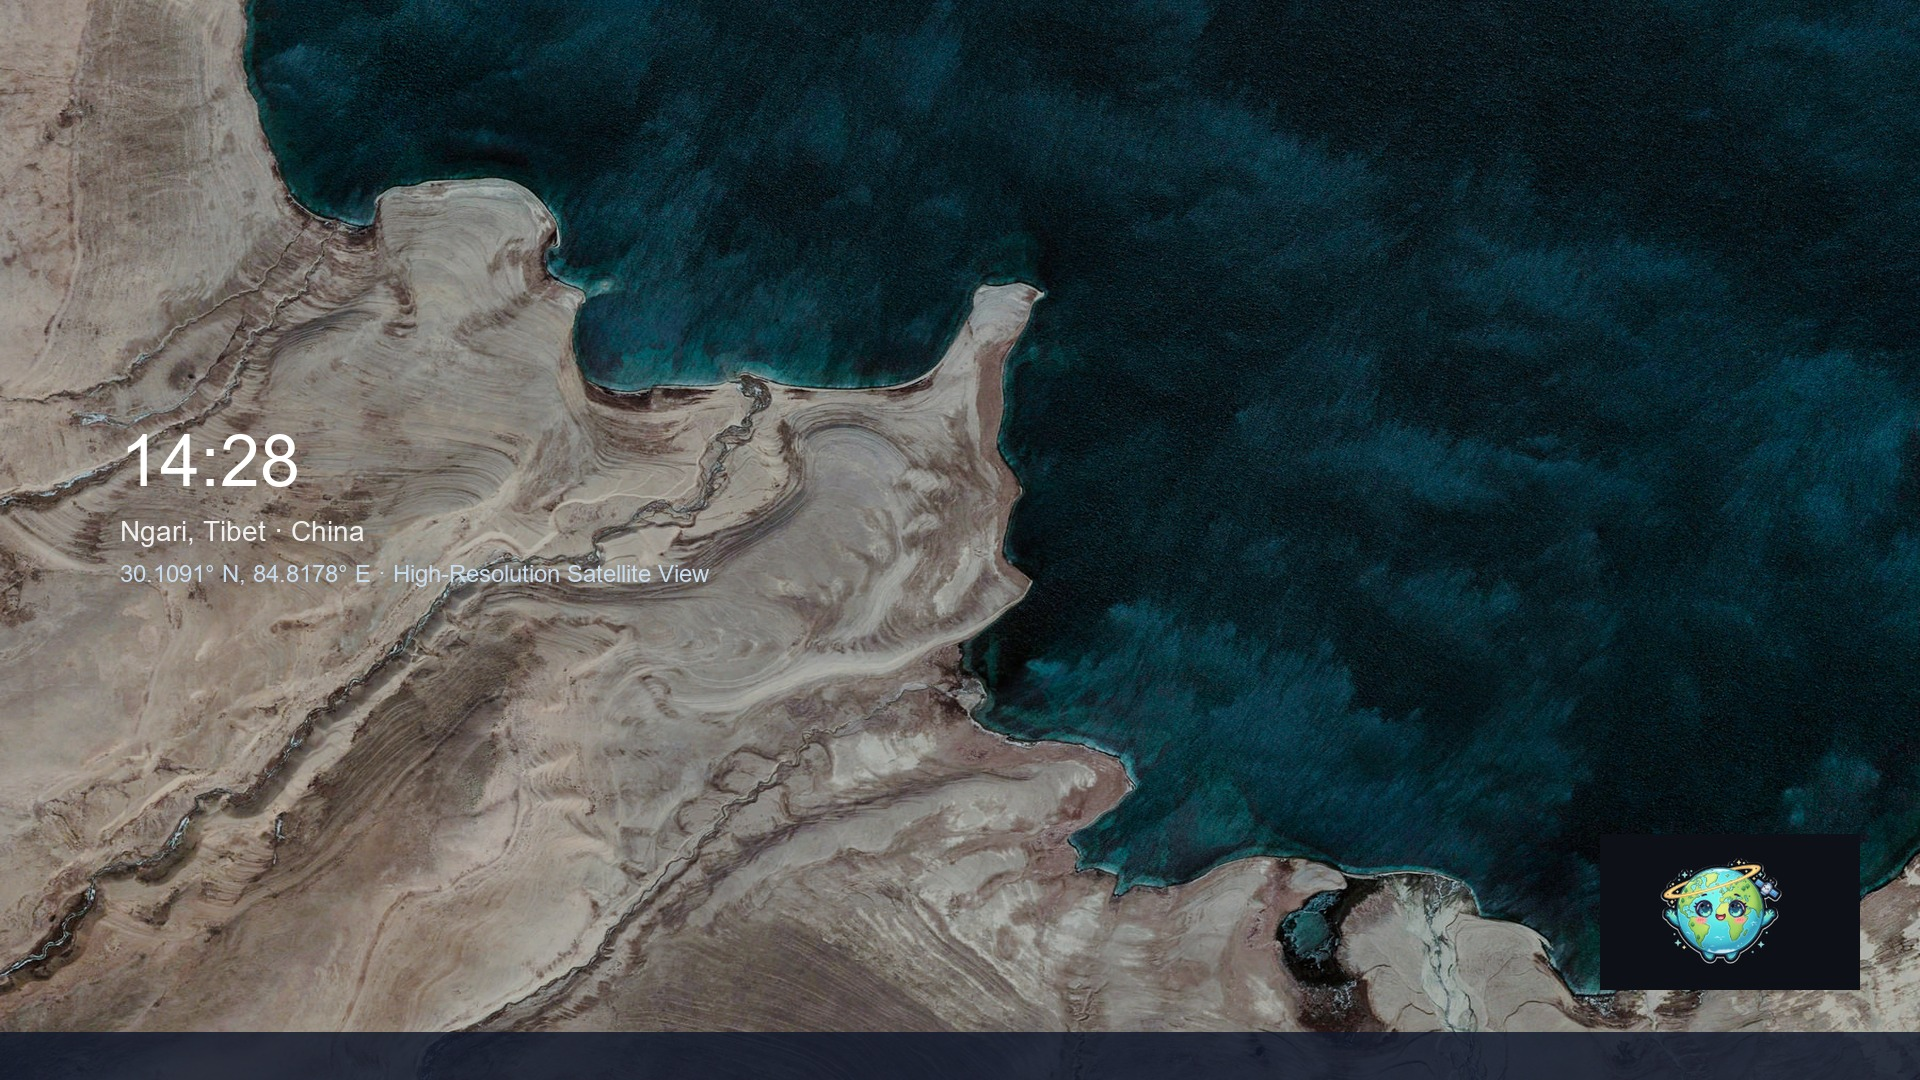
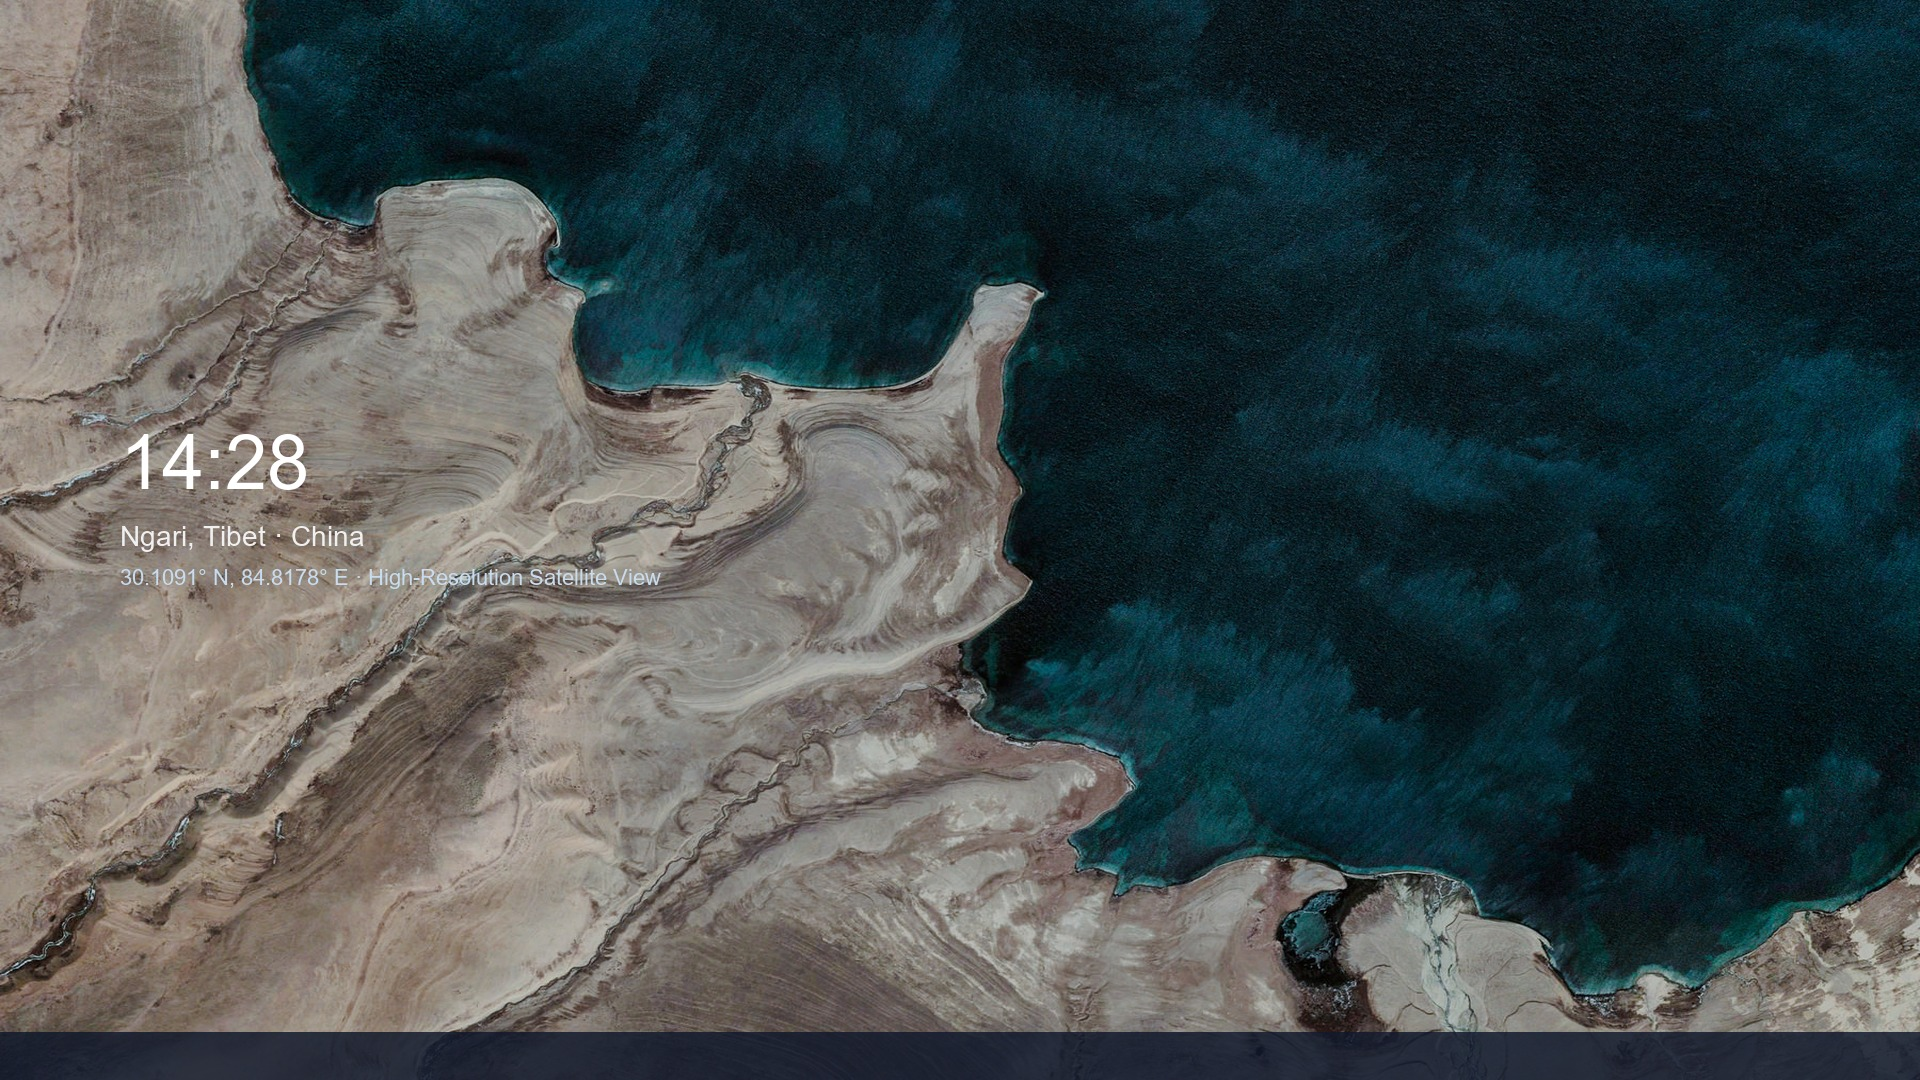
feat(ai): upgrade to Gemini 3.8 Flash, simplify product presentation, and purge raster pet screenshot

Changed region(s): [[0.8125, 0.7639, 0.9688, 0.9167], [0.0625, 0.4889, 0.375, 0.55], [0.0625, 0.3972, 0.1562, 0.4583]]

diff --git a/EarthWallpaper/GeminiService.cs b/EarthWallpaper/GeminiService.cs
@@ -103,7 +103,7 @@ namespace EarthWallpaper
             try
             {
                 string cleanKey = apiKey.Trim();
-                string url = $"https://generativelanguage.googleapis.com/v1beta/models/gemini-2.0-flash:generateContent?key={cleanKey}";
+                string url = $"https://generativelanguage.googleapis.com/v1beta/models/gemini-3.8-flash:generateContent?key={cleanKey}";
                 var payload = new
                 {
                     contents = new[]
@@ -120,7 +120,7 @@ namespace EarthWallpaper
 
                 if (resp.IsSuccessStatusCode)
                 {
-                    return (true, "连接成功！Gemini 2.0 Flash 服务正常响应就绪。");
+                    return (true, "连接成功！Gemini 3.8 Flash 服务正常响应就绪。");
                 }
 
                 string errMsg = $"HTTP {(int)resp.StatusCode}";
@@ -153,7 +153,7 @@ namespace EarthWallpaper
 
         private static async Task<string> CallGeminiApiAsync(string apiKey, LocationInfo loc, string question, List<(string role, string text)> history)
         {
-            string url = $"https://generativelanguage.googleapis.com/v1beta/models/gemini-2.0-flash:generateContent?key={apiKey}";
+            string url = $"https://generativelanguage.googleapis.com/v1beta/models/gemini-3.8-flash:generateContent?key={apiKey}";
 
             var contents = new List<object>();
 

diff --git a/README.md b/README.md
@@ -1,140 +1,44 @@
-# Earth Tabliss Wallpaper 🌍✨
+# Earth Tabliss 🌍
 
-<p align="center">
-  <img src="docs/images/mascot.png" alt="Earth Tabliss Mascot" width="140" height="140" />
-</p>
-
-<p align="center">
-  <strong>Silent stars, breathtaking landscapes — High-resolution curated satellite wallpapers & intelligent desktop companion for Windows.</strong>
-</p>
+> A lightweight, minimalist live wallpaper for Windows featuring 1,500+ curated high-resolution satellite landscapes from Google Earth View, integrated with Tabliss-inspired typography and geological AI analysis.
 
 <p align="center">
   <img src="https://img.shields.io/badge/Platform-Windows%2010%20%7C%2011-blue?style=flat-square&logo=windows" alt="Platform" />
-  <img src="https://img.shields.io/badge/.NET-10.0%20Windows-512BD4?style=flat-square&logo=dotnet" alt=".NET Version" />
-  <img src="https://img.shields.io/badge/Engine-Direct%20WorkerW%20Layer-0078D7?style=flat-square" alt="Engine" />
-  <img src="https://img.shields.io/badge/CPU%20Overhead-0%20FPS%20%7C%20~0.0%25%20Idle-22c55e?style=flat-square" alt="Efficiency" />
-  <img src="https://img.shields.io/badge/AI%20Model-Gemini%202.0%20Flash-4285F4?style=flat-square&logo=google" alt="AI Model" />
+  <img src="https://img.shields.io/badge/.NET-10.0-512BD4?style=flat-square&logo=dotnet" alt=".NET" />
+  <img src="https://img.shields.io/badge/CPU%20Idle-0%20FPS%20%7C%20~0.0%25-22c55e?style=flat-square" alt="Efficiency" />
+  <img src="https://img.shields.io/badge/AI-Gemini%203.8%20Flash-4285F4?style=flat-square&logo=google" alt="AI" />
   <img src="https://img.shields.io/badge/License-MIT-green?style=flat-square" alt="License" />
 </p>
 
 <p align="center">
-  <a href="README.md">English</a> • <a href="README.zh-CN.md">简体中文</a>
+  <img src="docs/images/desktop_preview.jpg" alt="Desktop Preview" width="100%" />
 </p>
+
+## ✨ Highlights
+
+* **1,500+ Satellite Views**: Curated landscapes from Google Earth View across deserts, glaciers, reefs, and salt flats.
+* **0 FPS Zero-Overhead Engine**: Halts redraw loops once the 0.6s wallpaper transition finishes. Idles at **~0.0% CPU**.
+* **Clean System Teardown**: Hooks non-destructively to Windows `WorkerW`. Automatically backs up and restores your original wallpaper on exit.
+* **Ask Gemini**: Instant geological and satellite reasoning powered by **Gemini 3.8 Flash** (`gemini-3.8-flash` / Gemini 4 Hydrogen compatible).
+* **Visual Bookmarks Hub**: Save and organize your favorite coordinates with instant cached satellite thumbnails.
 
 <p align="center">
-  <img src="docs/images/desktop_preview.jpg" alt="Earth Tabliss Desktop Wallpaper Preview" width="100%" />
+  <img src="docs/images/wallpaper_gallery_grid.jpg" alt="Wallpaper Gallery" width="100%" />
 </p>
 
----
+## 🚀 Quick Start
 
-## 🌌 Overview
+### Requirements
+* Windows 10 (1903+) or Windows 11 (64-bit)
+* [.NET 10.0 Desktop Runtime](https://dotnet.microsoft.com/download)
 
-In a fast-paced digital workflow, your desktop shouldn't just be an icon dump — it should be an expansive window to the planet.
-
-**Earth Tabliss** transforms your Windows desktop into an ever-refreshing visual expedition across 1,500+ curated high-resolution satellite landscapes from Google Earth View, integrated with Tabliss-inspired minimalist typography, an interactive desktop companion, and deep planetary geological reasoning powered by Google Gemini.
-
-<p align="center">
-  <img src="docs/images/wallpaper_gallery_grid.jpg" alt="Curated High-Resolution Satellite Wallpapers" width="100%" />
-  <br />
-  <em>Over 1,500+ ultra-high-resolution satellite captures across deserts, glaciers, coral reefs, and volcanic plains.</em>
-</p>
-
----
-
-## ✨ Key Features
-
-### 🖼 1. Ultra-High-Resolution Curated Earth View
-* **1,500+ Masterpieces**: Hand-picked satellite captures spanning all seven continents — tectonic faultlines, salt flats, meandering rivers, and glacial valleys.
-* **Minimalist Information Overlay**: Displays clean local time, geographic coordinates, and regional names without cluttering your workspace.
-* **One-Click 3D Flyover**: Instantly transition from your 2D desktop wallpaper into a full 3D interactive flight on Google Earth Web.
-
-### 🍃 2. True Zero-FPS Idle Efficiency (0.0% CPU)
-* **Static Zero-Refresh Architecture**: Unlike video loops or heavy rendering engines that constantly burn GPU cycles, Earth Tabliss halts all redraw loops once a wallpaper fade-in completes.
-* **Extreme Low Resource Footprint**: Idles at **~0.0% CPU overhead** and low memory usage. Completely silent, fan-free, and battery-friendly — runs effortlessly on both ultra-thin laptops and entry-level quad-core machines.
-
-### 🐾 3. Non-Intrusive Desktop Companion
-* **Zero Window Dominance**: Resides naturally above the desktop layer without stealing keyboard focus or popping over your IDE, terminal, or browser.
-* **Intuitive Mouse Matrix**:
-  * **Left Click**: Toggles the interactive landmark bubble (quick switch, bookmark, or analyze).
-  * **Left Double-Click**: Opens the comprehensive **Earth Hub**.
-  * **Left Drag**: Freely relocates the pet anywhere across multi-monitor setups with automatic taskbar boundary snapping.
-  * **Right Click**: Opens the system utility context menu (skin switching, toggle desktop icons, bookmarks, telemetry, exit).
-
-### ⭐ 4. Visual Bookmarks Hub with Satellite Thumbnails
-* **Persistent Two-Tier Image Cache**: Stores and renders high-definition satellite preview thumbnails with instant responsiveness.
-* **Tag-Based Filtering & Search**: Organize your collection by tags (Cities, Deserts, Rivers, Favorites) or search by country, region, and coordinates.
-* **Instant Wallpaper Application**: Reapply any saved landmark as your live wallpaper with a single click.
-
-<p align="center">
-  <img src="docs/images/bookmarks_hub.png" alt="Bookmarks Hub" width="90%" />
-</p>
-
-### 💬 5. "Ask Gemini" Geological & Satellite Intelligence
-* **Planetary Geomorphology Q&A**: Ask Gemini anything about structural geology, sedimentology, erosion dynamics, and orbital imaging spectra.
-* **Powered by Gemini 2.0 Flash**: Fast, responsive inference directly from Google AI Studio.
-* **Seamless API Onboarding**: Comes with offline reasoning models out of the box; easily attach your personal free Gemini API Key for comprehensive analysis.
-
-<p align="center">
-  <img src="docs/images/ask_gemini.png" alt="Ask Gemini Analysis" width="90%" />
-</p>
-
-### 🛡 6. Zero Host Pollution & Clean Teardown
-* **Non-Destructive Execution**: Does not tamper with Windows input hooks or Explorer thread message loops.
-* **Original Wallpaper Auto-Restoration**: Backs up your active system wallpaper upon launch and 100% cleanly restores it on exit.
-* **Desktop Icon Toggle**: One-click visibility toggle for desktop icons whenever you want a completely clean, unobstructed planetary vista.
-
----
-
-## 🎮 Control Matrix
-
-| Input | Target | Action & Description |
-| :--- | :--- | :--- |
-| **Left Click** | Desktop Pet | Toggle landmark speech bubble (quick navigation & bookmark) |
-| **Left Double-Click** | Desktop Pet | Open the Earth Hub (Bookmarks, Gemini Q&A, Settings) |
-| **Left Drag** | Desktop Pet | Reposition pet with auto boundary collision prevention |
-| **Right Click** | Desktop Pet | Open pet management menu (Skins, Icons, Settings, Exit) |
-| **Right Click** | Tray Icon | Open system tray menu (Next/Prev Wallpaper, Auto-start, Exit) |
-| **ESC Key** | Any Modal | Quickly close any active Earth Tabliss dialog |
-
----
-
-## 🚀 Getting Started
-
-### System Requirements
-* **OS**: Windows 10 (1903+) or Windows 11 (64-bit)
-* **Runtime**: [.NET 10.0 Desktop Runtime](https://dotnet.microsoft.com/download/dotnet/10.0) (or [.NET 8.0/9.0](https://dotnet.microsoft.com/download))
-* **Dependencies**: Microsoft Edge WebView2 Evergreen Runtime (pre-installed on Windows 10/11)
-
-### Installation & Launch
-
-1. **Clone the Repository**:
-   ```bash
-   git clone https://github.com/hawaka6667-dev/earth-tabliss-wallpaper.git
-   cd earth-tabliss-wallpaper
-   ```
-
-2. **Build and Run**:
-   ```bash
-   dotnet build EarthWallpaper/EarthWallpaper.csproj -c Release
-   dotnet run --project EarthWallpaper/EarthWallpaper.csproj
-   ```
-   *Alternatively, double-click `start.bat` in the project root.*
-
----
-
-## 🛠 Architecture & Tech Stack
-
+### Run
+```bash
+git clone https://github.com/hawaka6667-dev/earth-tabliss-wallpaper.git
+cd earth-tabliss-wallpaper
+dotnet run --project EarthWallpaper/EarthWallpaper.csproj
 ```
-EarthWallpaper.exe (.NET 10 WinForms UI Host)
- ├── DesktopWorker.cs (Win32 WorkerW Layer Integration)
- ├── PowerGovernor.cs (Fullscreen App Detector & 0% CPU Governor)
- ├── GeminiService.cs (Gemini 2.0 Flash Client & Planetary Prompts)
- ├── EarthPetForm.cs (WS_EX_NOACTIVATE Isolated ToolWindow Companion)
- └── WebView2 Subsystem (Static HTML5/Canvas Minimalist Renderer)
-```
-
----
+*Or double-click `start.bat`.*
 
 ## 📄 License
-
-This project is licensed under the [MIT License](LICENSE). Curated satellite imagery belongs to **Google Earth View** and respective satellite data providers.
+[MIT](LICENSE) · Imagery © Google Earth View.
